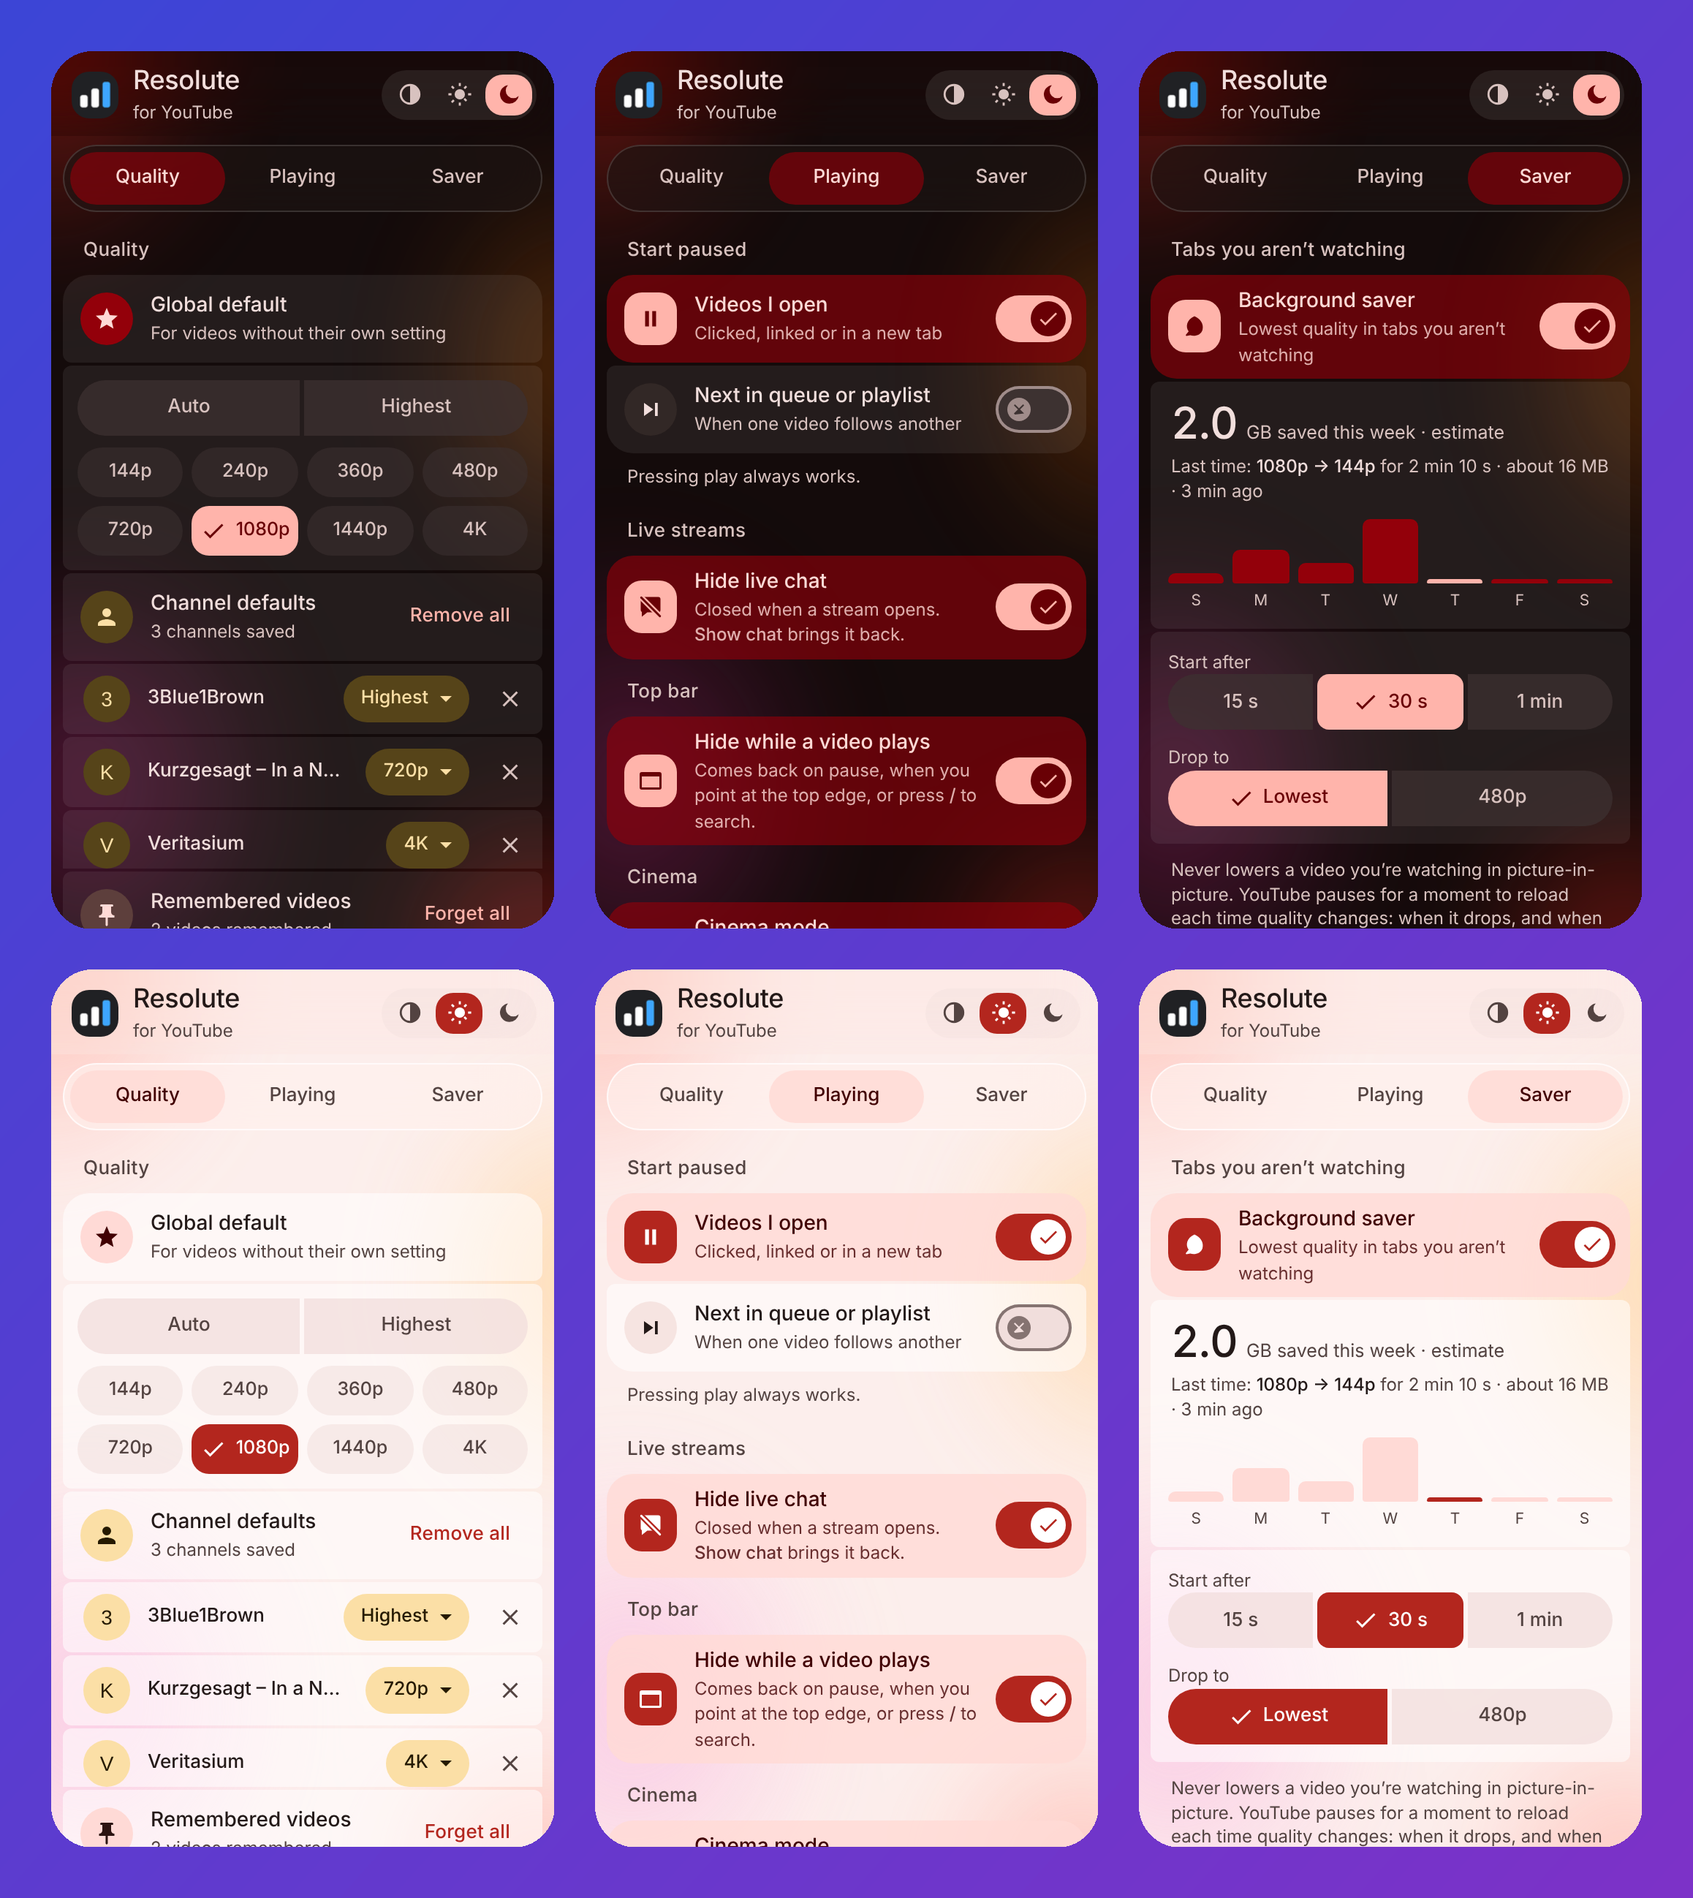
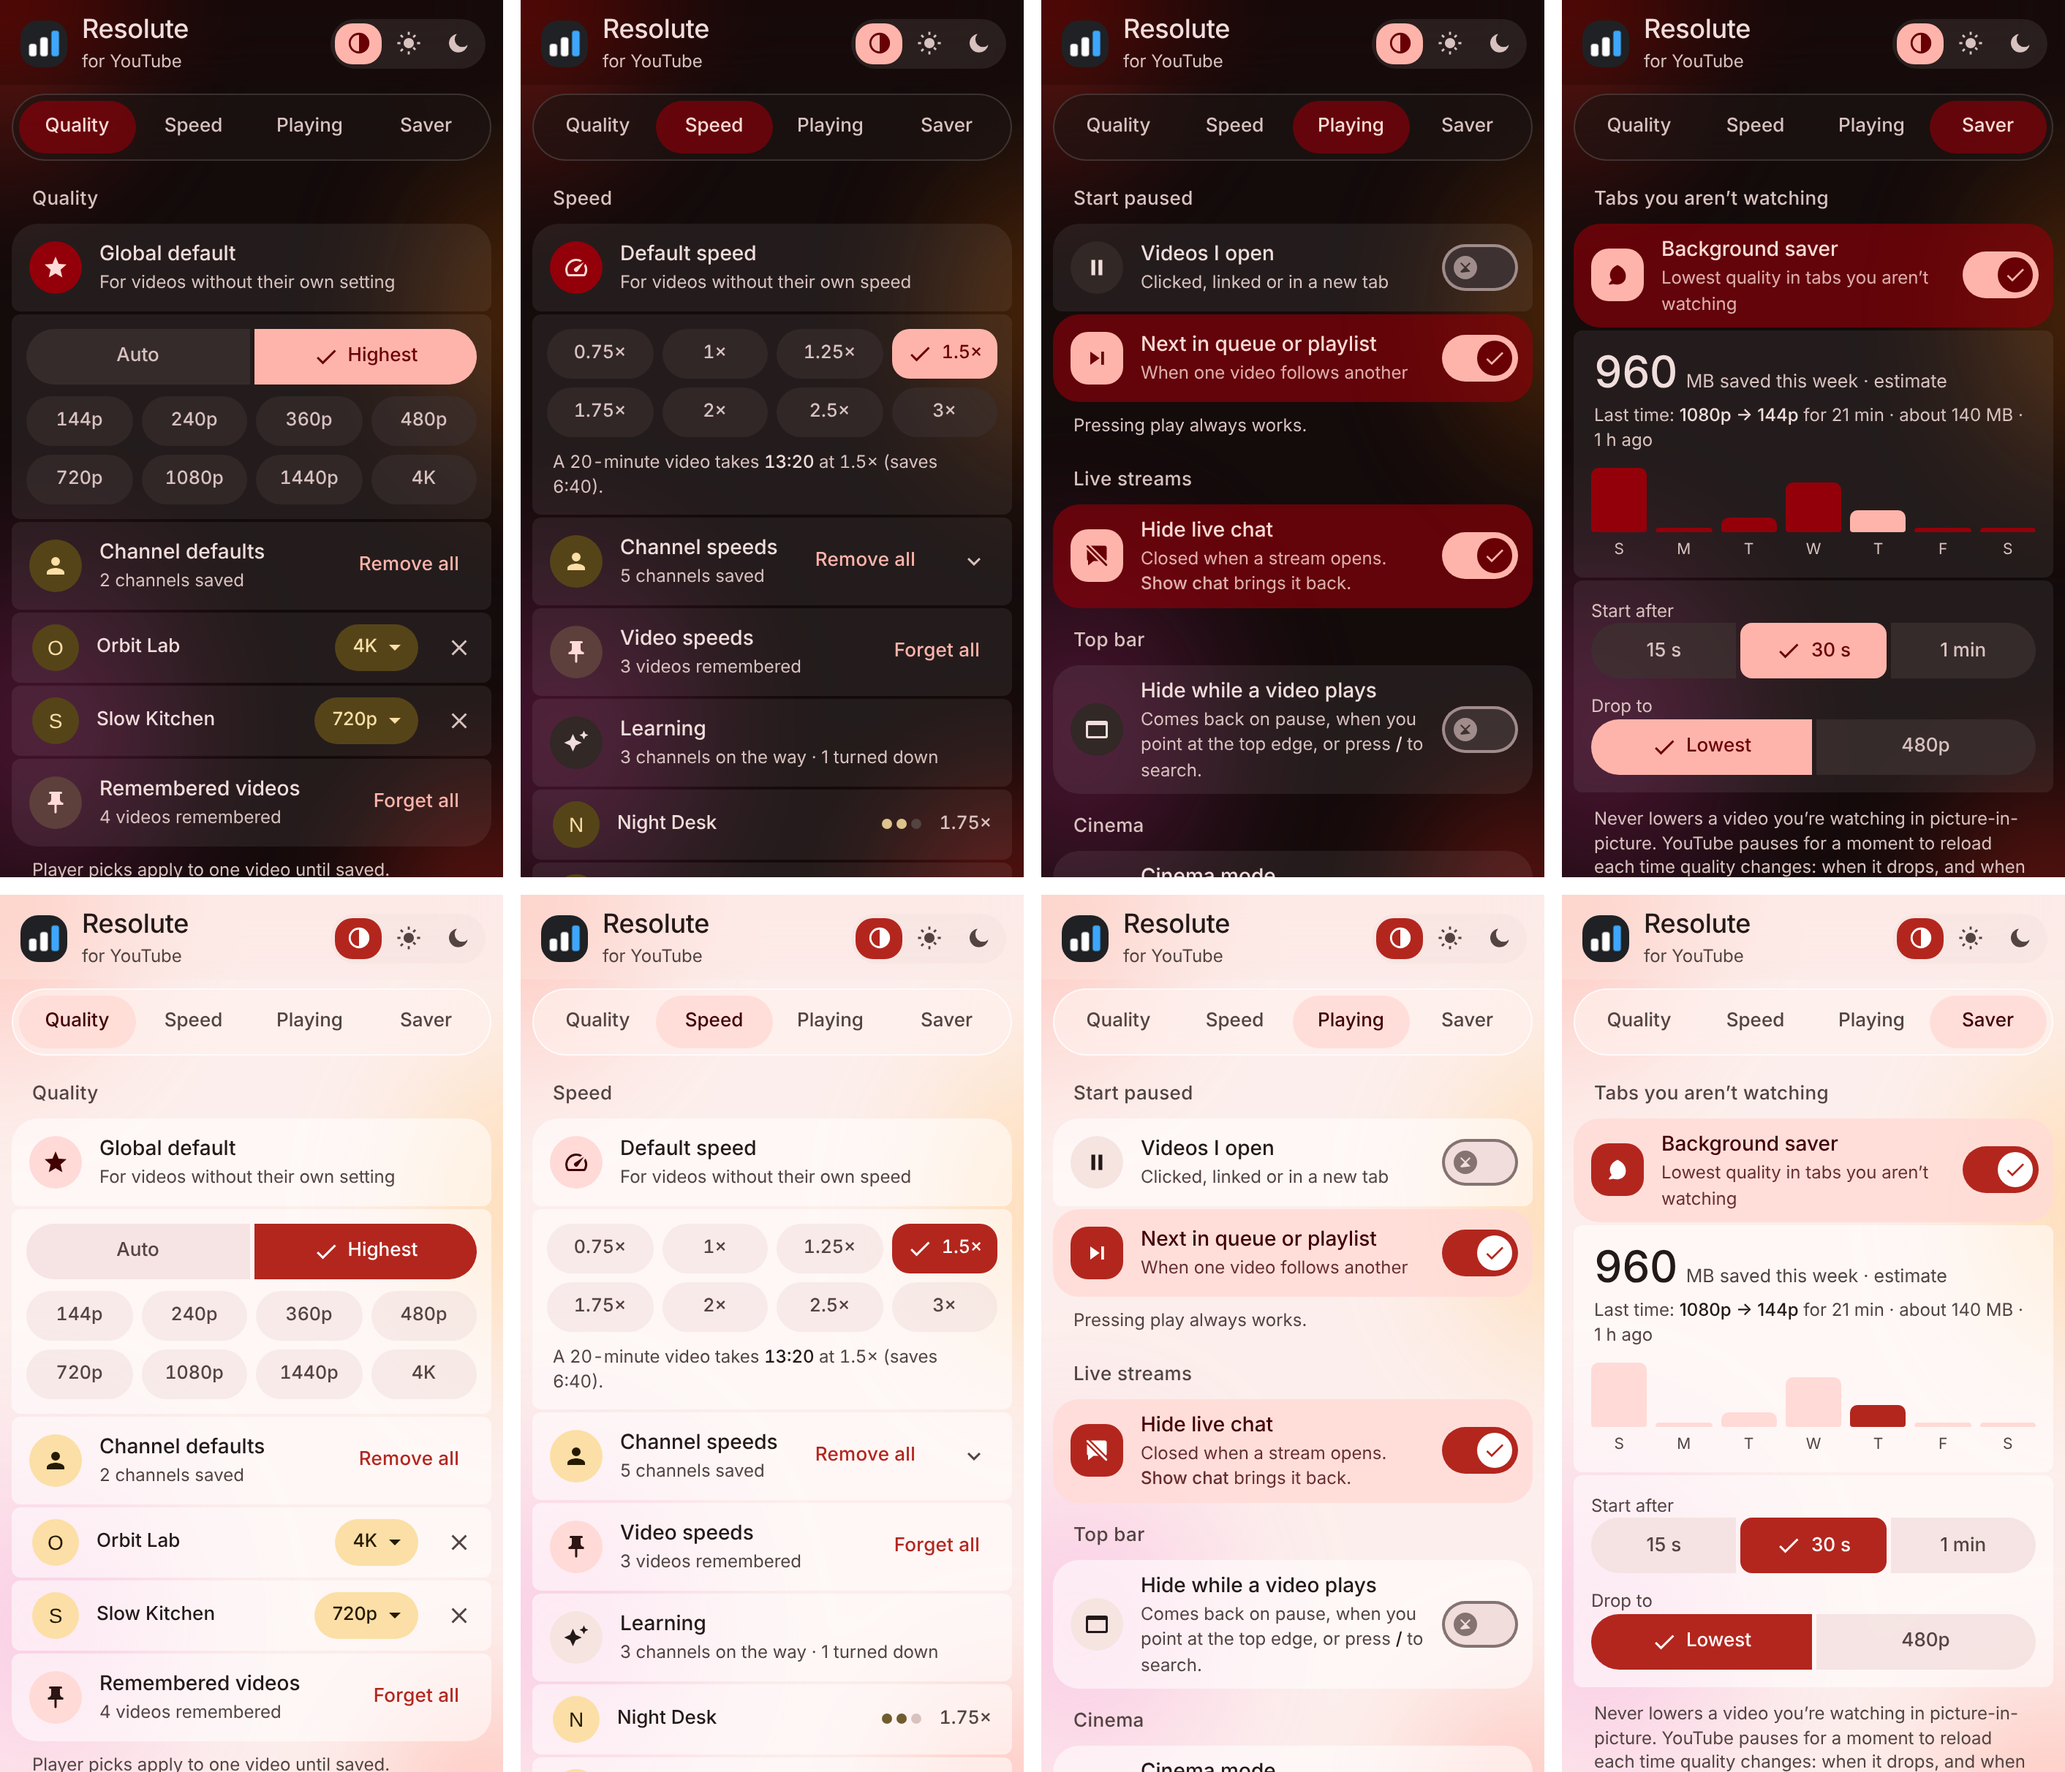
README: what's new in 1.4, four-page popup picture, speed pill in the install steps
Claude-Session: https://claude.ai/code/session_01SoQw9BFe3Fmj771AbvqcRf

diff --git a/README.md b/README.md
@@ -32,6 +32,8 @@
   <a href="PRIVACY.md">Privacy</a>
 </p>
 
+> **🆕 New in 1.4:** a **speed button** in the player (the left half of the quality pill), speeds remembered for each video and each channel, a smart helper that notices the speed you like for a channel and asks once, and a new **Speed** page in the popup. [See how it works](#speed).
+
 ---
 
 ## ✨ What you get
@@ -400,8 +402,8 @@ The popup card also shows about how much data you saved **this week (Sunday to S
 ## 🗂 The toolbar popup
 
 <p align="center">
-  <img src="docs/popup.png" alt="The Resolute popup's three pages, Quality, Playing and Saver, in dark (top) and light (bottom) themes" width="100%"><br>
-  <sub>The real popup's pages in dark (top) and light (bottom), rendered from the extension's code. The channels and counts are example data. This picture was taken before the resume settings and the Speed page were added, so see the pictures below for those.</sub>
+  <img src="docs/popup.png" alt="The Resolute popup's four pages, Quality, Speed, Playing and Saver, in dark (top) and light (bottom) themes" width="100%"><br>
+  <sub>The real popup's four pages in dark (top) and light (bottom), rendered from the extension's code. The channels and counts are example data. The pictures below show the Speed page and the resume settings further down.</sub>
 </p>
 
 <p align="center">
@@ -461,7 +463,7 @@ Safari and phone browsers are not supported.
 
 1. Open the [Resolute page on Mozilla Add-ons](https://addons.mozilla.org/en-US/firefox/addon/resolute-video-quality-control/) in Firefox.
 2. Click **Add to Firefox**, then **Add** in the box that appears.
-3. Open any YouTube video. The quality button is in the player, next to the gear.
+3. Open any YouTube video. The speed and quality pill is in the player, next to the gear.
 
 It updates by itself. If the button does not appear, open `about:addons`, click **Resolute**, go to **Permissions**, and allow YouTube.
 
@@ -474,7 +476,7 @@ Resolute is not on the Chrome Web Store, so you add it from a folder on your com
 3. Open `chrome://extensions` (Edge: `edge://extensions`, Brave: `brave://extensions`).
 4. Turn on **Developer mode** (top right).
 5. Click **Load unpacked** and choose the folder that **contains `manifest.json`**. Inside the unzipped folder there may be one more folder with the same name: open it until you can see `manifest.json`, then select that.
-6. Open a YouTube video. The quality button is in the player, next to the gear.
+6. Open a YouTube video. The speed and quality pill is in the player, next to the gear.
 
 To make the button easy to reach, click the puzzle-piece icon in the toolbar and pin **Resolute**.
 
@@ -497,7 +499,7 @@ Firefox removes it when you close it, so load it again next time.
 | What you see | What it means |
 |:---|:---|
 | "manifest.json was not found" | You picked a folder or ZIP with another folder inside it. Pick the one that shows `manifest.json` straight away. |
-| No quality button on YouTube | Refresh the YouTube tab. Then check that Resolute is allowed on YouTube (Firefox: `about:addons` → Resolute → Permissions). |
+| No speed and quality pill on YouTube | Refresh the YouTube tab. Then check that Resolute is allowed on YouTube (Firefox: `about:addons` → Resolute → Permissions). |
 | Button is there but the popup shows a warning | Click **Allow on YouTube** in the popup. |
 | It stopped after a browser update (Chrome) | Open `chrome://extensions` and make sure Resolute is still switched on. |
 
@@ -527,7 +529,7 @@ It reads the channel's permanent ID (it starts with `UC`) from YouTube's own pla
 <details>
 <summary><b>What if YouTube changes how its page looks?</b></summary>
 
-Your videos will still play normally. If YouTube moves its controls, the quality button becomes a small floating button above the progress bar. If YouTube changes its top bar, the autoplay button may not show, but the switch in the popup still works. If YouTube changes its chat, the chat just stays open. If YouTube changes its theater button, Cinema mode simply does not turn theater on. Nothing else is affected.
+Your videos will still play normally. If YouTube moves its controls, the quality button becomes a small floating button above the progress bar (the speed half hides then, and YouTube's own speed menu still works). If YouTube changes its top bar, the autoplay button may not show, but the switch in the popup still works. If YouTube changes its chat, the chat just stays open. If YouTube changes its theater button, Cinema mode simply does not turn theater on. Nothing else is affected.
 </details>
 
 <details>
